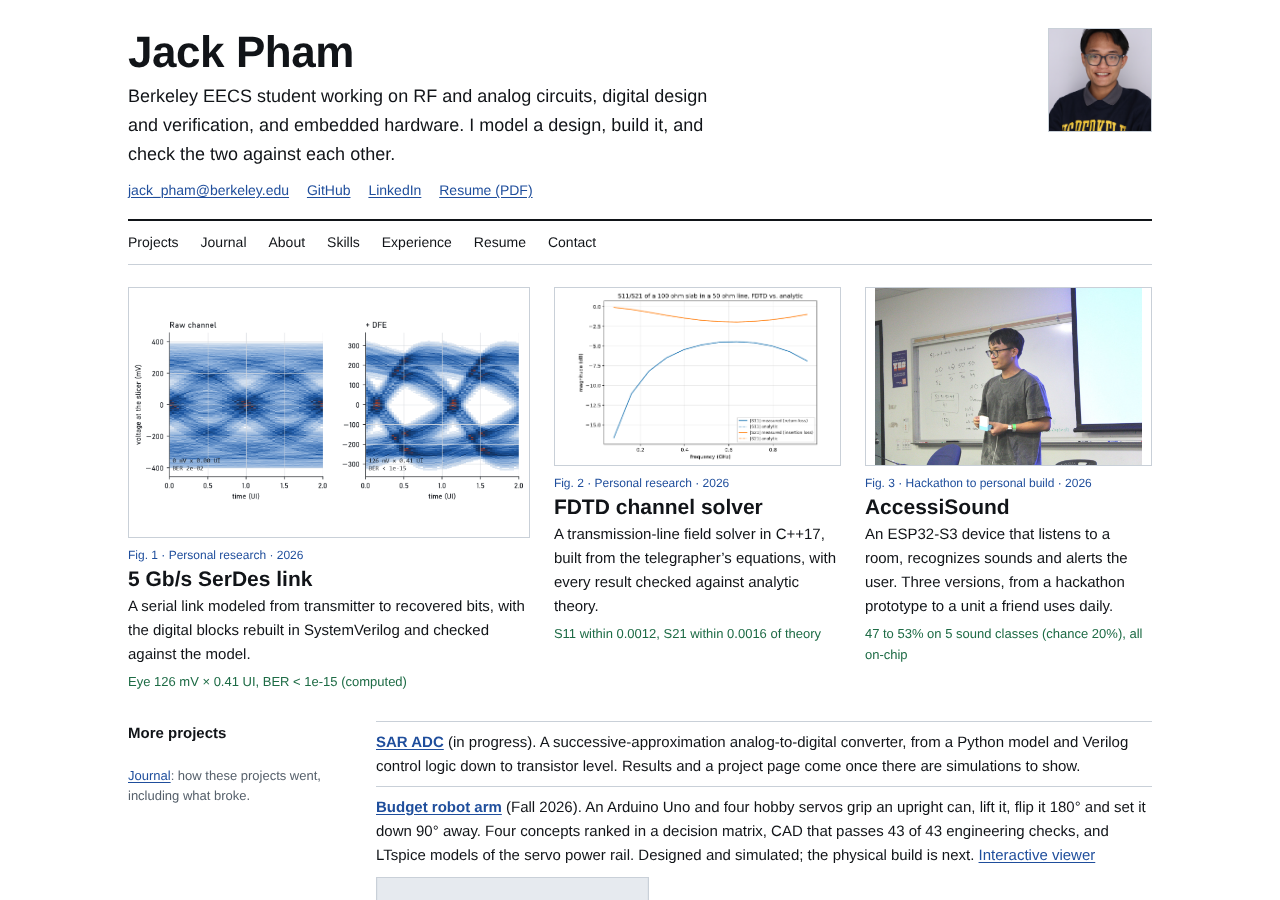
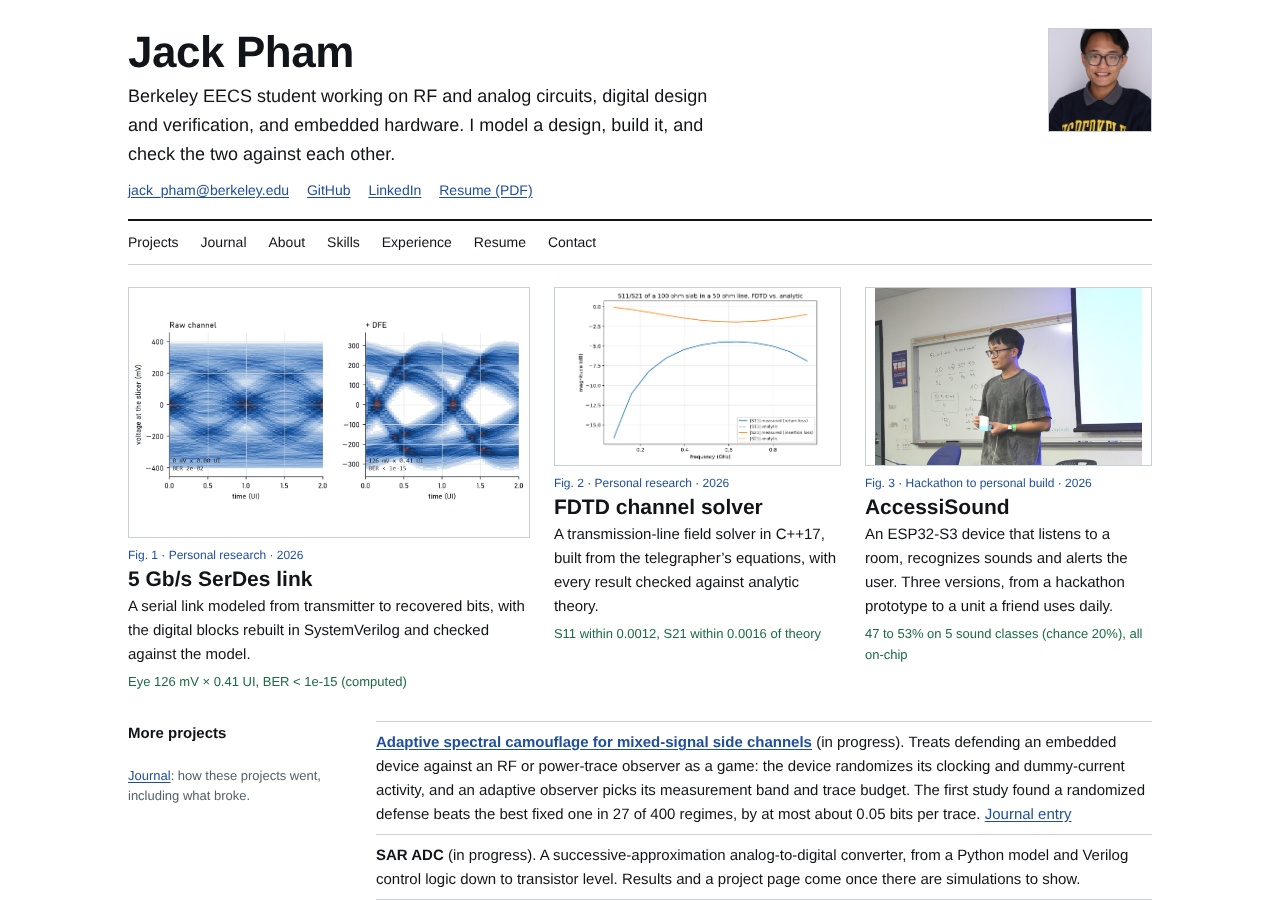
add security game

Changed region(s): [[0.2812, 0.8089, 0.9062, 1.0]]

diff --git a/index.html b/index.html
@@ -43,6 +43,7 @@
     <div class="more">
       <div class="mono muted"><b class="more-h">More projects</b><br><br><a href="journal.html">Journal</a>: how these projects went, including what broke.</div>
       <ul id="more">
+        <li><b><a href="https://github.com/jackpham-rgb/rf-mixed-signal-security-game" target="_blank" rel="noopener">Adaptive spectral camouflage for mixed-signal side channels</a></b> (in progress). Treats defending an embedded device against an RF or power-trace observer as a game: the device randomizes its clocking and dummy-current activity, and an adaptive observer picks its measurement band and trace budget. The first study found a randomized defense beats the best fixed one in 27 of 400 regimes, by at most about 0.05 bits per trace. <a href="journal.html#game-theory-in-ee">Journal entry</a></li>
         <li><b>SAR ADC</b> (in progress). A successive-approximation analog-to-digital converter, from a Python model and Verilog control logic down to transistor level. Results and a project page come once there are simulations to show.</li>
         <li><b><a href="https://github.com/jackpham-rgb/MEproject2026F" target="_blank" rel="noopener">Budget robot arm</a></b> (Fall 2026). An Arduino Uno and four hobby servos grip an upright can, lift it, flip it 180° and set it down 90° away. Four concepts ranked in a decision matrix, CAD that passes 43 of 43 engineering checks, and LTspice models of the servo power rail. Designed and simulated; the physical build is next. <a href="https://jackpham-rgb.github.io/MEproject2026F/" target="_blank" rel="noopener">Interactive viewer</a>
           <div class="thumbs"><figure><img src="assets/img/projects/robot-arm-cad.gif" alt="Animated CAD of the robot arm" loading="lazy"><figcaption>Detail CAD running the firmware sequence.</figcaption></figure></div>

diff --git a/journal.js b/journal.js
@@ -4,6 +4,16 @@
 */
 const JOURNAL = [
   {
+    id: 'game-theory-in-ee',
+    date: 'Fall 2026',
+    title: 'Bringing game theory into EE',
+    link: { label: 'rf-mixed-signal-security-game', url: 'https://github.com/jackpham-rgb/rf-mixed-signal-security-game' },
+    body: [
+      'This started with the AI and ML trend in tech, and it made me wonder how to bring game theory into EE. At first I was thinking about game theory in circuits, especially in the paths for electrons and wires. But after deeper research into the topic, I wanted to find an area that no one has tackled, or at least one that has not had as much consideration. That is why I landed here: signals and ML.',
+      'The project, still in progress, asks whether a device can randomize its clocking and dummy-current activity so that an RF or power-trace observer learns less, while staying within energy and latency limits. The first study found a smaller effect than it first looked: a randomized defense beats the best fixed one in 27 of 400 regimes, by at most about 0.05 bits per trace. Two independent implementations agree on that result.'
+    ]
+  },
+  {
     id: 'eye-that-looked-closed',
     date: 'Fall 2026',
     title: 'The eye that looked closed',

diff --git a/journal.html b/journal.html
@@ -42,6 +42,7 @@
       <div>
         <h3><a class="self" href="#${e.id}">${e.title}</a></h3>
         ${p ? `<p class="entry-proj">Project: <a href="project.html?p=${p.id}">${p.title}</a></p>` : ''}
+        ${e.link ? `<p class="entry-proj">Repo: <a href="${e.link.url}" target="_blank" rel="noopener">${e.link.label}</a></p>` : ''}
         ${e.body.map(t => `<p>${t}</p>`).join('')}
         ${e.fig ? `<figure class="entry-fig"><img src="${e.fig.src}" alt="${e.fig.cap}" loading="lazy"><figcaption>${e.fig.cap}</figcaption></figure>` : ''}
       </div>`;
